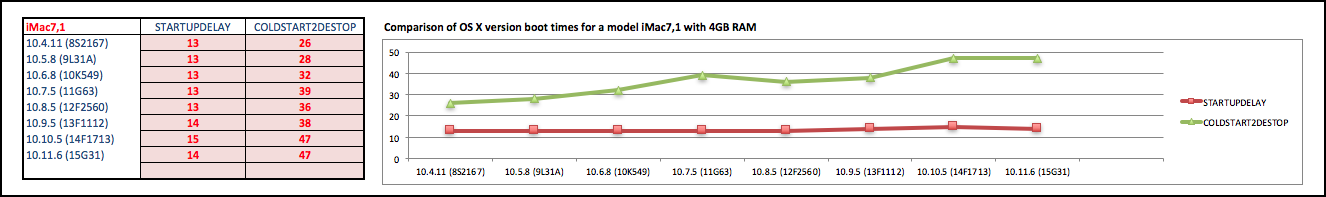
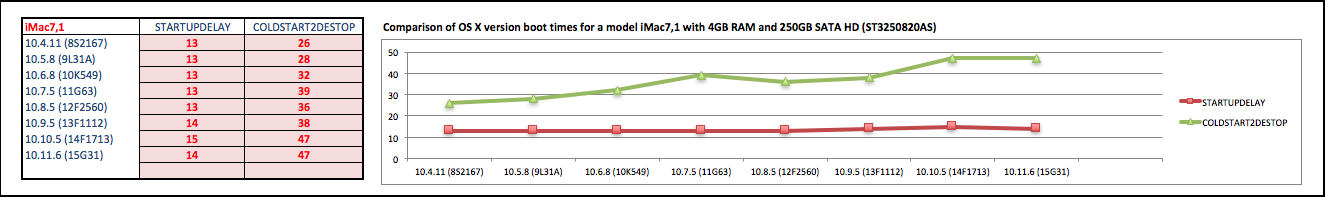
1.0.9

diff --git a/README.md b/README.md
@@ -40,7 +40,7 @@ If for some reason the script will not abort, boot into Single-User mode and del
 
 The results can be read from the log file that is placed in the same folder as the script.
 
-- Average BOOTLOGDELAY
+- Average STARTUPDELAY
   This is how long it took to start logging. Basically, this is the delay that you see before OSX starts to load (the grey screen before the apple logo appears).
 
 - Average COLDSTART2DESTOP
@@ -64,7 +64,23 @@ The iMac7,1 test results in the spreadsheet were executed on a 4GB Mac with a 25
 
 The results show that on an iMac7,1 and a base OS with no Applications - 10.4.11 gets to a useable desktop in 26 seconds whereas on 10.11.6 it averages 47 seconds.
 
+###iMac10,1 Results
+
+The iMac10,1 test results in the spreadsheet were executed on a 4GB Mac with a 250GB HD. 
+
+![AD Group Members Tab, Members](Results-iMac10v1.png "Timings")
+
+The results show that on an iMac10,1 and a base OS with no Applications - 10.6.8 gets to a useable desktop in 22 seconds whereas on 10.12.1 it averages 40 seconds.
+
 ##History:
+
+1.0.9 - 04 OCT 18
+
+* Uploaded the change from 2 years ago, but no updates since.
+
+1.0.9 - 01 NOV 16
+
+* Timings for macOS Sierra 10.12.1 added
 
 1.0.8 - 21 JUL 16
 
